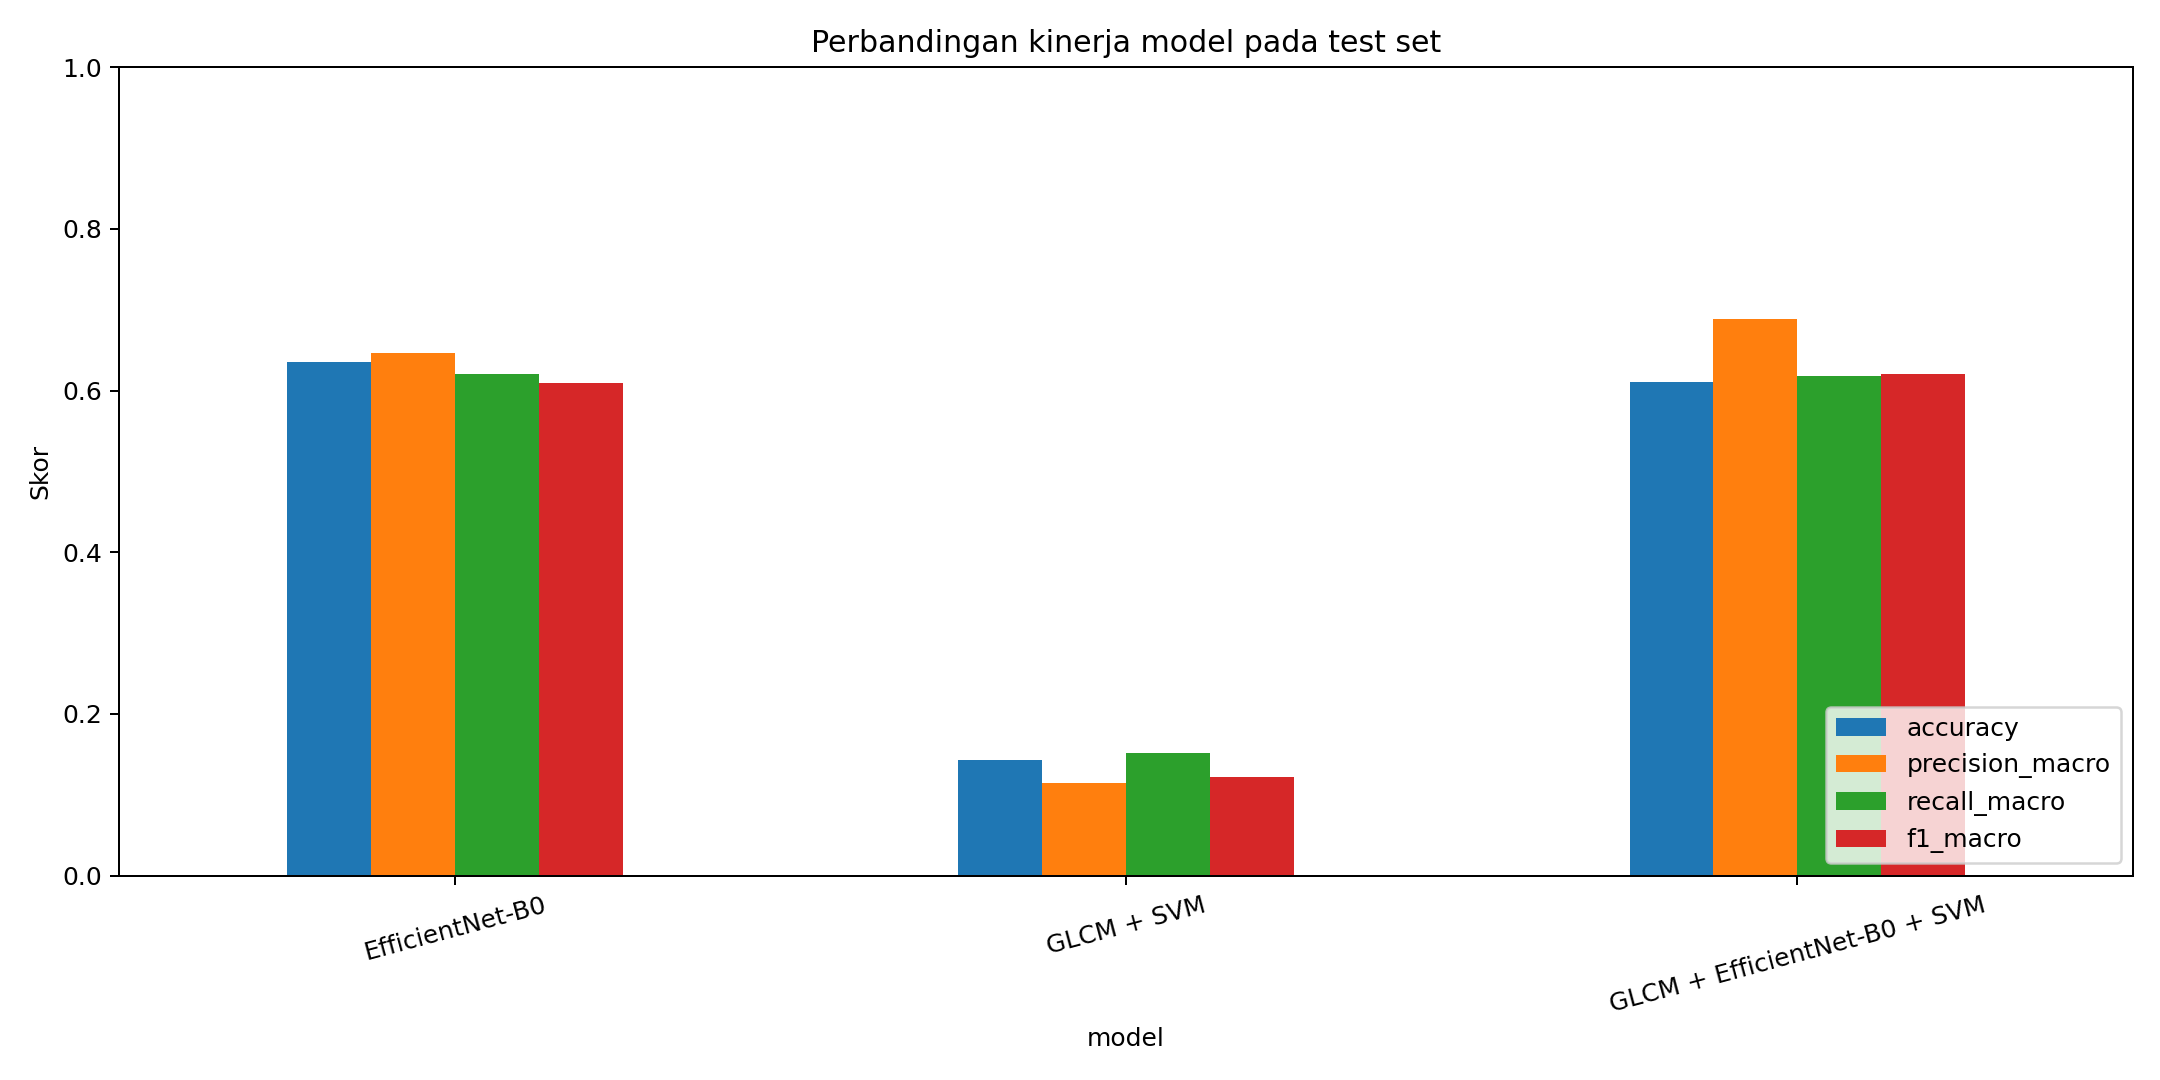
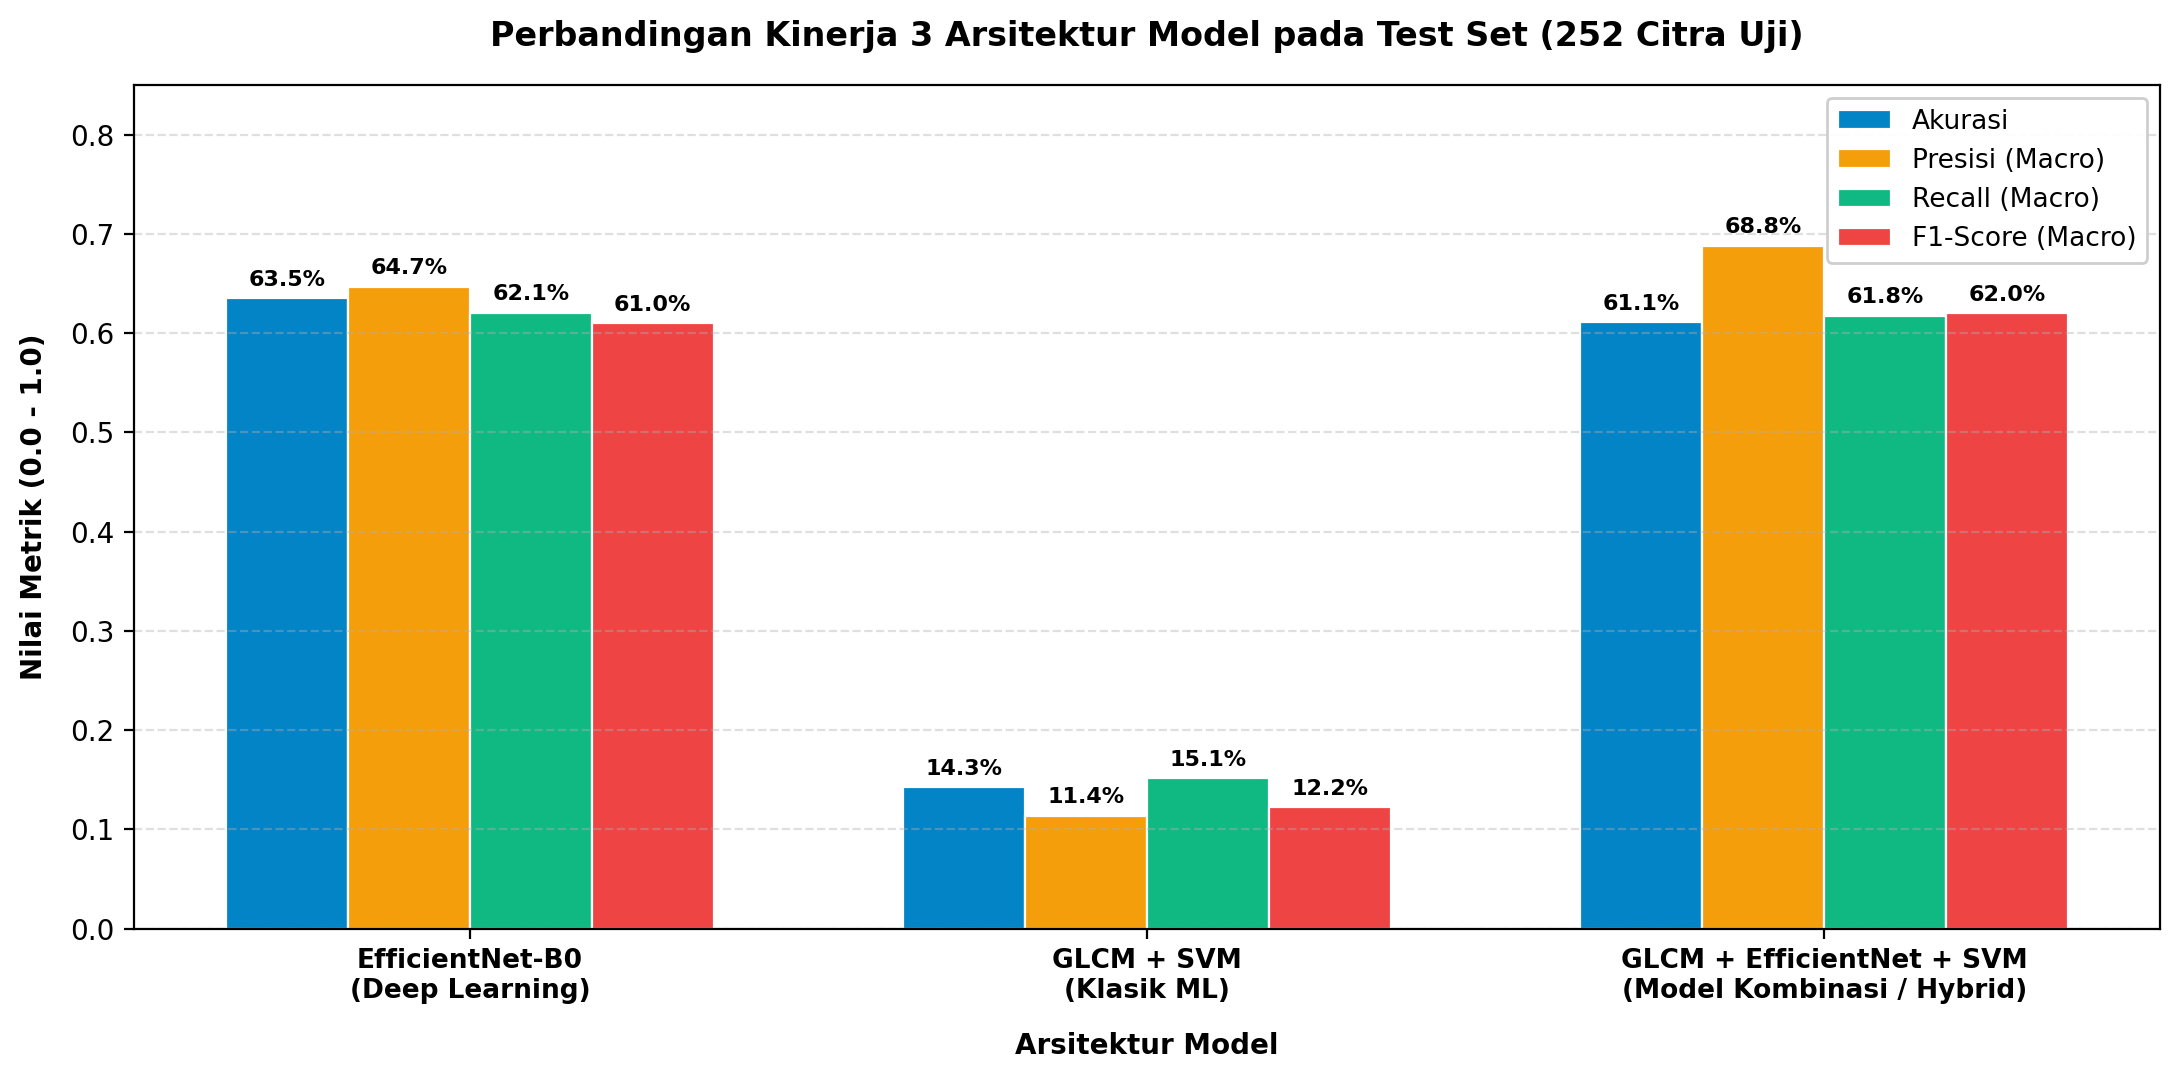
feat(ui): update hero layout, indonesian evaluation charts, and clean performance cards

diff --git a/components/Hero.tsx b/components/Hero.tsx
@@ -1,7 +1,7 @@
 'use client';
 
 import React from 'react';
-import { UploadCloud, BarChart2, ShieldCheck, Cpu } from 'lucide-react';
+import { UploadCloud, BarChart2 } from 'lucide-react';
 
 export function Hero() {
   return (
@@ -11,100 +11,62 @@ export function Hero() {
       <div className="absolute bottom-0 left-1/3 -mb-20 w-80 h-80 rounded-full bg-[#a3e635]/10 blur-3xl pointer-events-none" />
 
       <div className="max-w-7xl mx-auto px-4 sm:px-6 lg:px-8 relative">
-        <div className="grid grid-cols-1 lg:grid-cols-12 gap-12 items-center">
-          {/* Left Column */}
+        <div className="grid grid-cols-1 lg:grid-cols-12 gap-10 items-center">
+          {/* Left Column: Heading & Methods */}
           <div className="lg:col-span-7 space-y-6">
             <div className="inline-flex items-center gap-2 px-3 py-1.5 rounded-full bg-emerald-800/60 border border-emerald-700/60 text-xs font-semibold text-emerald-200">
-              <span className="w-2 h-2 rounded-full bg-[#a3e635] animate-ping" />
-              Projek Akhir UAS Machine Learning & Front End 2025/2026
+              Project UAS machine learning - Kelompok C12
             </div>
 
             <h1 className="text-3xl sm:text-4xl lg:text-5xl font-extrabold tracking-tight leading-tight">
               Sistem Cerdas Klasifikasi Penyakit Daun Tanaman Berbasis{' '}
               <span className="bg-gradient-to-r from-[#a3e635] via-emerald-300 to-teal-300 bg-clip-text text-transparent">
-                Multi-Modal AI & Node.js
+                Fitur GLCM, EfficientNet-B0 & SVM
               </span>
             </h1>
 
-            <p className="text-base sm:text-lg text-emerald-100/80 max-w-2xl leading-relaxed">
-              Mengintegrasikan <strong>Deep Transfer Learning (EfficientNet-B0)</strong>, fitur tekstur spasial <strong>GLCM</strong>, dan <strong>Support Vector Machine (SVM)</strong> untuk mendiagnosis 28 jenis penyakit daun secara presisi.
-            </p>
-
-            <div className="flex flex-wrap gap-4 pt-2">
-              <a
-                href="#deteksi"
-                className="inline-flex items-center gap-2.5 px-6 py-3 rounded-full font-bold text-sm bg-[#a3e635] text-[#0a3622] hover:bg-[#bef264] transition-all shadow-lg shadow-[#a3e635]/20 hover:-translate-y-0.5"
-              >
-                <UploadCloud className="w-4 h-4" />
-                Mulai Uji Gambar Daun
-              </a>
-              <a
-                href="#performa"
-                className="inline-flex items-center gap-2 px-6 py-3 rounded-full font-semibold text-sm bg-white/10 hover:bg-white/15 text-white border border-white/20 transition-all"
-              >
-                <BarChart2 className="w-4 h-4" />
-                Lihat Evaluasi Riset
-              </a>
-            </div>
-
-            {/* Quick Stats Grid */}
-            <div className="grid grid-cols-3 gap-4 pt-8 border-t border-emerald-800/60 max-w-lg">
-              <div className="p-3 rounded-2xl bg-emerald-900/40 border border-emerald-800/40">
-                <div className="text-2xl font-black text-[#a3e635]">28</div>
-                <div className="text-xs text-emerald-200/70 font-medium">Kelas Penyakit</div>
-              </div>
-              <div className="p-3 rounded-2xl bg-emerald-900/40 border border-emerald-800/40">
-                <div className="text-2xl font-black text-[#a3e635]">2.922</div>
-                <div className="text-xs text-emerald-200/70 font-medium">Citra Terlatih</div>
-              </div>
-              <div className="p-3 rounded-2xl bg-emerald-900/40 border border-emerald-800/40">
-                <div className="text-2xl font-black text-[#a3e635]">62.0%</div>
-                <div className="text-xs text-emerald-200/70 font-medium">F1-Score Hybrid</div>
-              </div>
+            <div className="space-y-1.5 text-sm sm:text-base text-emerald-100/80 max-w-2xl">
+              <p className="text-emerald-200 font-semibold">Metode yang di gunakan:</p>
+              <p>GLCM (Gray-Level Co-occurrence Matrix) — Machine Learning (Ekstraksi Fitur Tekstur)</p>
+              <p>EfficientNet-B0 — Deep Learning (CNN)</p>
+              <p>SVM (Support Vector Machine) — Machine Learning (Klasifikasi)</p>
             </div>
           </div>
 
-          {/* Right Column: Interactive Card Preview */}
-          <div className="lg:col-span-5">
-            <div className="p-5 rounded-3xl bg-white/95 text-slate-800 shadow-2xl border border-white/20 backdrop-blur-xl space-y-4">
-              <div className="flex items-center justify-between pb-3 border-b border-slate-100">
-                <div className="flex items-center gap-2">
-                  <span className="w-2.5 h-2.5 rounded-full bg-emerald-500" />
-                  <span className="text-xs font-bold uppercase tracking-wider text-emerald-800">
-                    Live Model Consensus
-                  </span>
-                </div>
-                <span className="text-xs px-2.5 py-1 rounded-full font-bold bg-amber-100 text-amber-800 border border-amber-200">
-                  Keparahan: Tinggi
-                </span>
-              </div>
+          {/* Right Column: Action Buttons & Stats */}
+          <div className="lg:col-span-5 space-y-5 lg:pl-2">
+            {/* Action Bar: Mulai Uji Gambar Daun & Lihat Evaluasi Riset */}
+            <div className="flex flex-wrap items-center gap-2.5 p-2 rounded-2xl bg-emerald-950/80 border border-emerald-700/60 backdrop-blur-md shadow-xl w-fit">
+              <a
+                href="#deteksi"
+                className="inline-flex items-center gap-2 px-5 py-3 rounded-xl font-bold text-xs sm:text-sm bg-[#a3e635] text-[#0a3622] hover:bg-[#bef264] transition-all shadow-md shadow-[#a3e635]/20 hover:-translate-y-0.5"
+              >
+                <UploadCloud className="w-4 h-4" />
+                <span>Mulai Uji Gambar Daun</span>
+              </a>
 
-              <div className="relative rounded-2xl overflow-hidden aspect-[4/3] bg-slate-100 shadow-inner">
-                {/* eslint-disable-next-line @next/next/no-img-element */}
-                <img
-                  src="/samples/sample_tomato_bacterial.jpg"
-                  alt="Sample Daun Tomat"
-                  className="w-full h-full object-cover"
-                />
-                <div className="absolute bottom-2 left-2 px-2.5 py-1 rounded-lg bg-black/70 backdrop-blur-sm text-[11px] font-semibold text-white">
-                  Tomato Bacterial Spot
-                </div>
-              </div>
+              <a
+                href="#performa"
+                className="inline-flex items-center gap-2 px-5 py-3 rounded-xl font-semibold text-xs sm:text-sm text-emerald-100/90 hover:text-white hover:bg-white/10 transition-all border border-white/10"
+              >
+                <BarChart2 className="w-4 h-4" />
+                <span>Lihat Evaluasi Riset</span>
+              </a>
+            </div>
 
-              <div>
-                <div className="flex items-center justify-between mb-1">
-                  <h4 className="font-bold text-slate-900 text-base">Bercak Bakteri Daun Tomat</h4>
-                  <span className="text-xs font-extrabold text-emerald-700">98.4% Confidence</span>
-                </div>
-                <p className="text-xs text-slate-500 mb-2">Tomat (Solanum lycopersicum) • Bakteri Xanthomonas</p>
-                <div className="w-full h-2 rounded-full bg-slate-100 overflow-hidden">
-                  <div className="h-full bg-gradient-to-r from-emerald-500 to-[#a3e635] rounded-full w-[98.4%]" />
-                </div>
+            {/* Quick Stats Grid: ditaruh tepat di bawah tombol */}
+            <div className="grid grid-cols-3 gap-2.5 sm:gap-3 pt-2">
+              <div className="p-3 sm:p-3.5 rounded-2xl bg-emerald-900/40 border border-emerald-800/40 hover:border-emerald-700/60 transition-colors text-center">
+                <div className="text-2xl sm:text-3xl font-black text-[#a3e635]">28</div>
+                <div className="text-[11px] sm:text-xs text-emerald-200/70 font-medium">Kelas Penyakit</div>
               </div>
-
-              <div className="p-3 rounded-xl bg-slate-50 border border-slate-100 text-xs text-slate-600 flex items-start gap-2">
-                <ShieldCheck className="w-4 h-4 text-emerald-600 shrink-0 mt-0.5" />
-                <span>Rekomendasi: Semprotkan bakterisida berbasis tembaga dan hindari penyiraman tajuk dari atas.</span>
+              <div className="p-3 sm:p-3.5 rounded-2xl bg-emerald-900/40 border border-emerald-800/40 hover:border-emerald-700/60 transition-colors text-center">
+                <div className="text-2xl sm:text-3xl font-black text-[#a3e635]">2.922</div>
+                <div className="text-[11px] sm:text-xs text-emerald-200/70 font-medium">Citra Terlatih</div>
+              </div>
+              <div className="p-3 sm:p-3.5 rounded-2xl bg-emerald-900/40 border border-emerald-800/40 hover:border-emerald-700/60 transition-colors text-center">
+                <div className="text-2xl sm:text-3xl font-black text-[#a3e635]">62.0%</div>
+                <div className="text-[11px] sm:text-xs text-emerald-200/70 font-medium">F1-Score Hybrid</div>
               </div>
             </div>
           </div>

diff --git a/components/PerformanceSection.tsx b/components/PerformanceSection.tsx
@@ -10,15 +10,13 @@ export function PerformanceSection() {
     <section id="performa" className="py-16 bg-white border-b border-slate-200">
       <div className="max-w-7xl mx-auto px-4 sm:px-6 lg:px-8">
         <div className="text-center max-w-2xl mx-auto mb-12">
-          <div className="inline-flex items-center gap-2 px-3 py-1 rounded-full bg-teal-100 text-teal-800 text-xs font-bold uppercase tracking-wider mb-2">
-            <Award className="w-3.5 h-3.5" /> Evaluasi & Hasil Riset
-          </div>
+          
+          <h2 className="text-3xl font-extrabold text-slate-900 tracking-tight">
+            Hasil Evaluasi Dan Riset
+          </h2>
           <h2 className="text-3xl font-extrabold text-slate-900 tracking-tight">
             Perbandingan Kinerja 3 Arsitektur Model
           </h2>
-          <p className="text-slate-600 text-sm sm:text-base mt-2">
-            Hasil pengujian empiris pada test set resmi PlantDoc (252 gambar uji) yang di-training di Google Colab.
-          </p>
         </div>
 
         {/* 3 Model Metric Cards */}
@@ -39,30 +37,30 @@ export function PerformanceSection() {
           </div>
 
           {/* EfficientNet-B0 */}
-          <div className="p-6 rounded-3xl bg-emerald-50/50 border-2 border-emerald-500/80 relative overflow-hidden shadow-sm">
-            <span className="text-[10px] uppercase font-bold tracking-wider px-2.5 py-1 rounded-full bg-emerald-600 text-white">
+          <div className="p-6 rounded-3xl bg-slate-50 border border-slate-200 relative overflow-hidden">
+            <span className="text-[10px] uppercase font-bold tracking-wider px-2.5 py-1 rounded-full bg-slate-200 text-slate-700">
               Model 2 (Deep Learning)
             </span>
-            <h4 className="text-base font-bold text-slate-900 mt-3">EfficientNet-B0</h4>
+            <h4 className="text-base font-bold text-slate-800 mt-3">EfficientNet-B0</h4>
             <p className="text-xs text-slate-500">Transfer Learning Pretrained ImageNet</p>
-            <div className="text-4xl font-black text-emerald-700 mt-4">63.5%</div>
-            <div className="text-xs text-emerald-800 font-bold mb-4">Akurasi Tertinggi ⭐</div>
-            <div className="pt-3 border-t border-emerald-200/80 grid grid-cols-2 text-xs text-slate-600">
+            <div className="text-4xl font-black text-slate-700 mt-4">63.5%</div>
+            <div className="text-xs text-slate-500 font-semibold mb-4">Akurasi Tertinggi</div>
+            <div className="pt-3 border-t border-slate-200 grid grid-cols-2 text-xs text-slate-600">
               <div>Precision: <strong>64.7%</strong></div>
               <div>Recall: <strong>62.1%</strong></div>
             </div>
           </div>
 
           {/* Hybrid Fusion */}
-          <div className="p-6 rounded-3xl bg-teal-50/50 border-2 border-teal-500/80 relative overflow-hidden shadow-sm">
-            <span className="text-[10px] uppercase font-bold tracking-wider px-2.5 py-1 rounded-full bg-teal-700 text-white">
+          <div className="p-6 rounded-3xl bg-slate-50 border border-slate-200 relative overflow-hidden">
+            <span className="text-[10px] uppercase font-bold tracking-wider px-2.5 py-1 rounded-full bg-slate-200 text-slate-700">
               Model 3 (Hybrid Fusion)
             </span>
-            <h4 className="text-base font-bold text-slate-900 mt-3">Model Kombinasi</h4>
+            <h4 className="text-base font-bold text-slate-800 mt-3">Model Kombinasi</h4>
             <p className="text-xs text-slate-500">GLCM (72D) + EfficientNet (1280D) + SVM</p>
-            <div className="text-4xl font-black text-teal-800 mt-4">62.0%</div>
-            <div className="text-xs text-teal-800 font-bold mb-4">Macro F1 Tertinggi ⭐</div>
-            <div className="pt-3 border-t border-teal-200/80 grid grid-cols-2 text-xs text-slate-600">
+            <div className="text-4xl font-black text-slate-700 mt-4">62.0%</div>
+            <div className="text-xs text-slate-500 font-semibold mb-4">Macro F1 Tertinggi</div>
+            <div className="pt-3 border-t border-slate-200 grid grid-cols-2 text-xs text-slate-600">
               <div>Precision: <strong>68.8%</strong></div>
               <div>Akurasi: <strong>61.1%</strong></div>
             </div>
@@ -80,7 +78,7 @@ export function PerformanceSection() {
                   : 'bg-white text-slate-600 border border-slate-200 hover:bg-slate-100'
               }`}
             >
-              <BarChart3 className="w-3.5 h-3.5" /> Bar Chart Perbandingan
+              <BarChart3 className="w-3.5 h-3.5" /> Diagram Perbandingan Metrik
             </button>
             <button
               onClick={() => setActiveTab('learning')}
@@ -90,7 +88,7 @@ export function PerformanceSection() {
                   : 'bg-white text-slate-600 border border-slate-200 hover:bg-slate-100'
               }`}
             >
-              <TrendingUp className="w-3.5 h-3.5" /> Learning Curve (12 Epochs)
+              <TrendingUp className="w-3.5 h-3.5" /> Kurva Pembelajaran (12 Epoch)
             </button>
             <button
               onClick={() => setActiveTab('confusion_hybrid')}
@@ -100,7 +98,7 @@ export function PerformanceSection() {
                   : 'bg-white text-slate-600 border border-slate-200 hover:bg-slate-100'
               }`}
             >
-              <Grid3X3 className="w-3.5 h-3.5" /> Confusion Matrix (Hybrid)
+              <Grid3X3 className="w-3.5 h-3.5" /> Matriks Konfusi (Model Hybrid)
             </button>
             <button
               onClick={() => setActiveTab('confusion_eff')}
@@ -110,7 +108,7 @@ export function PerformanceSection() {
                   : 'bg-white text-slate-600 border border-slate-200 hover:bg-slate-100'
               }`}
             >
-              <Grid3X3 className="w-3.5 h-3.5" /> Confusion Matrix (EfficientNet)
+              <Grid3X3 className="w-3.5 h-3.5" /> Matriks Konfusi (EfficientNet-B0)
             </button>
           </div>
 

diff --git a/components/Navbar.tsx b/components/Navbar.tsx
@@ -1,50 +1,29 @@
 'use client';
 
 import React from 'react';
-import Link from 'next/link';
-import { Leaf, Sparkles, Activity, BarChart3, BookOpen } from 'lucide-react';
+import { Sparkles, Activity, BarChart3, BookOpen } from 'lucide-react';
 
 export function Navbar() {
   return (
     <nav className="sticky top-0 z-50 bg-[#0a3622]/90 backdrop-blur-md border-b border-emerald-800/40 text-white">
       <div className="max-w-7xl mx-auto px-4 sm:px-6 lg:px-8">
         <div className="flex items-center justify-between h-16">
-          {/* Brand */}
-          <div className="flex items-center gap-3">
-            <div className="w-10 h-10 rounded-xl bg-gradient-to-br from-emerald-400 to-lime-400 flex items-center justify-center text-[#0a3622] font-bold shadow-md shadow-emerald-500/20">
-              <Leaf className="w-5 h-5" />
-            </div>
-            <div>
-              <div className="flex items-center gap-2">
-                <span className="font-extrabold text-lg tracking-tight">
-                  PlantDoc<span className="text-[#a3e635]">AI</span>
-                </span>
-                <span className="text-[10px] uppercase font-semibold tracking-wider bg-emerald-800/60 text-emerald-300 px-2 py-0.5 rounded-full border border-emerald-700/50">
-                  Node.js + ML
-                </span>
-              </div>
-              <p className="text-[11px] text-emerald-200/70 hidden sm:block -mt-0.5">
-                Sistem Diagnosis Penyakit Daun Berbasis AI
-              </p>
-            </div>
-          </div>
-
           {/* Nav Links */}
-          <div className="hidden md:flex items-center gap-6 text-sm font-medium">
+          <div className="flex items-center gap-6 text-sm font-medium overflow-x-auto py-1">
             <a href="#beranda" className="text-emerald-100/90 hover:text-[#a3e635] transition-colors flex items-center gap-1.5">
               Beranda
             </a>
             <a href="#deteksi" className="text-emerald-100/90 hover:text-[#a3e635] transition-colors flex items-center gap-1.5">
-              <Activity className="w-4 h-4" /> Deteksi Citra
+               Deteksi Citra
             </a>
             <a href="#performa" className="text-emerald-100/90 hover:text-[#a3e635] transition-colors flex items-center gap-1.5">
-              <BarChart3 className="w-4 h-4" /> Performa Model
+               Performa Model
             </a>
             <a href="#ood-study" className="text-emerald-100/90 hover:text-[#a3e635] transition-colors flex items-center gap-1.5">
-              <Sparkles className="w-4 h-4" /> Kasus OOD
+               Kasus OOD
             </a>
             <a href="#katalog" className="text-emerald-100/90 hover:text-[#a3e635] transition-colors flex items-center gap-1.5">
-              <BookOpen className="w-4 h-4" /> 28 Kelas Daun
+              28 Kelas Daun
             </a>
           </div>
 
@@ -54,7 +33,6 @@ export function Navbar() {
               href="#deteksi"
               className="inline-flex items-center gap-2 px-4 py-2 rounded-full text-xs sm:text-sm font-bold bg-gradient-to-r from-emerald-500 to-[#a3e635] text-[#0a3622] hover:from-emerald-400 hover:to-[#bef264] transition-all shadow-sm hover:shadow-emerald-500/20 hover:-translate-y-0.5"
             >
-              <Sparkles className="w-4 h-4" />
               <span>Uji Gambar</span>
             </a>
           </div>

diff --git a/app/layout.tsx b/app/layout.tsx
@@ -2,7 +2,7 @@ import type { Metadata } from 'next';
 import './globals.css';
 
 export const metadata: Metadata = {
-  title: 'PlantDoc AI - Sistem Deteksi Penyakit Daun Berbasis Multi-Modal Machine Learning',
+  title: 'Sistem Deteksi Penyakit Daun - Fusi Fitur GLCM, EfficientNet-B0 & SVM | UAS ML FTI UNTAR',
   description: 'Projek Akhir UAS Machine Learning Fakultas Teknologi Informasi Universitas Tarumanagara. Klasifikasi 28 kelas penyakit daun tanaman menggunakan fusi fitur spasial GLCM dan Deep Transfer Learning EfficientNet-B0 dengan SVM.',
   icons: {
     icon: '/favicon.ico',
